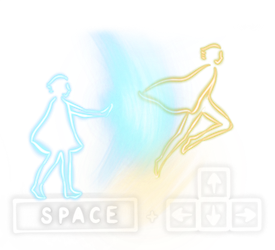
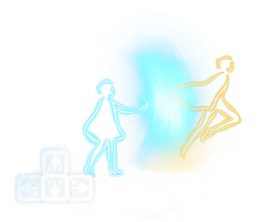
added assets and new tutorial levels

Changed region(s): [[0.0582, 0.1081, 0.9018, 0.9189]]

diff --git a/core/src/edu/cornell/gdiac/somniphobia/game/controllers/MovementController.java b/core/src/edu/cornell/gdiac/somniphobia/game/controllers/MovementController.java
@@ -34,7 +34,7 @@ public class MovementController implements ContactListener {
     private BoxObstacle goalDoor;
 
     /** Timeout for attempting hand holding */
-    private final float HAND_HOLD_TIMEOUT = 10;
+    private final float HAND_HOLD_TIMEOUT = 40;
 
     private float handHoldTimer = HAND_HOLD_TIMEOUT;
 
@@ -218,7 +218,7 @@ public class MovementController implements ContactListener {
                 beginHoldHands();
                 transitioningHoldingHands = false;
             }
-            else if (avatar.getPosition().dst2(prevPositionVector) < .0001) {
+            else if (avatar.getPosition().dst2(prevPositionVector) < .0001 || handHoldTimer < 0) {
                 transitioningHoldingHands = false;
                 handHoldTimer = HAND_HOLD_TIMEOUT;
             }
